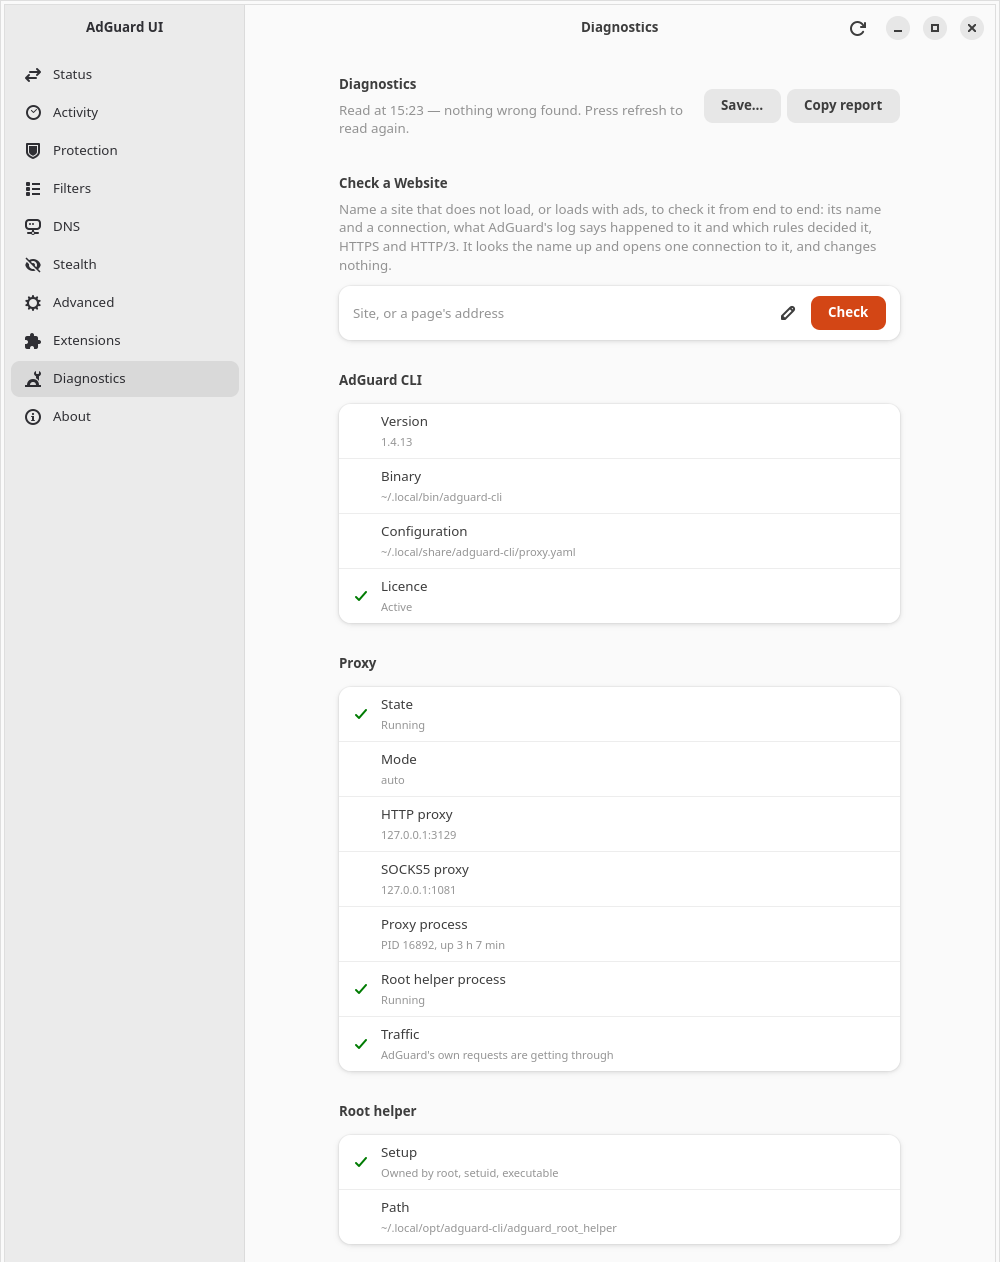
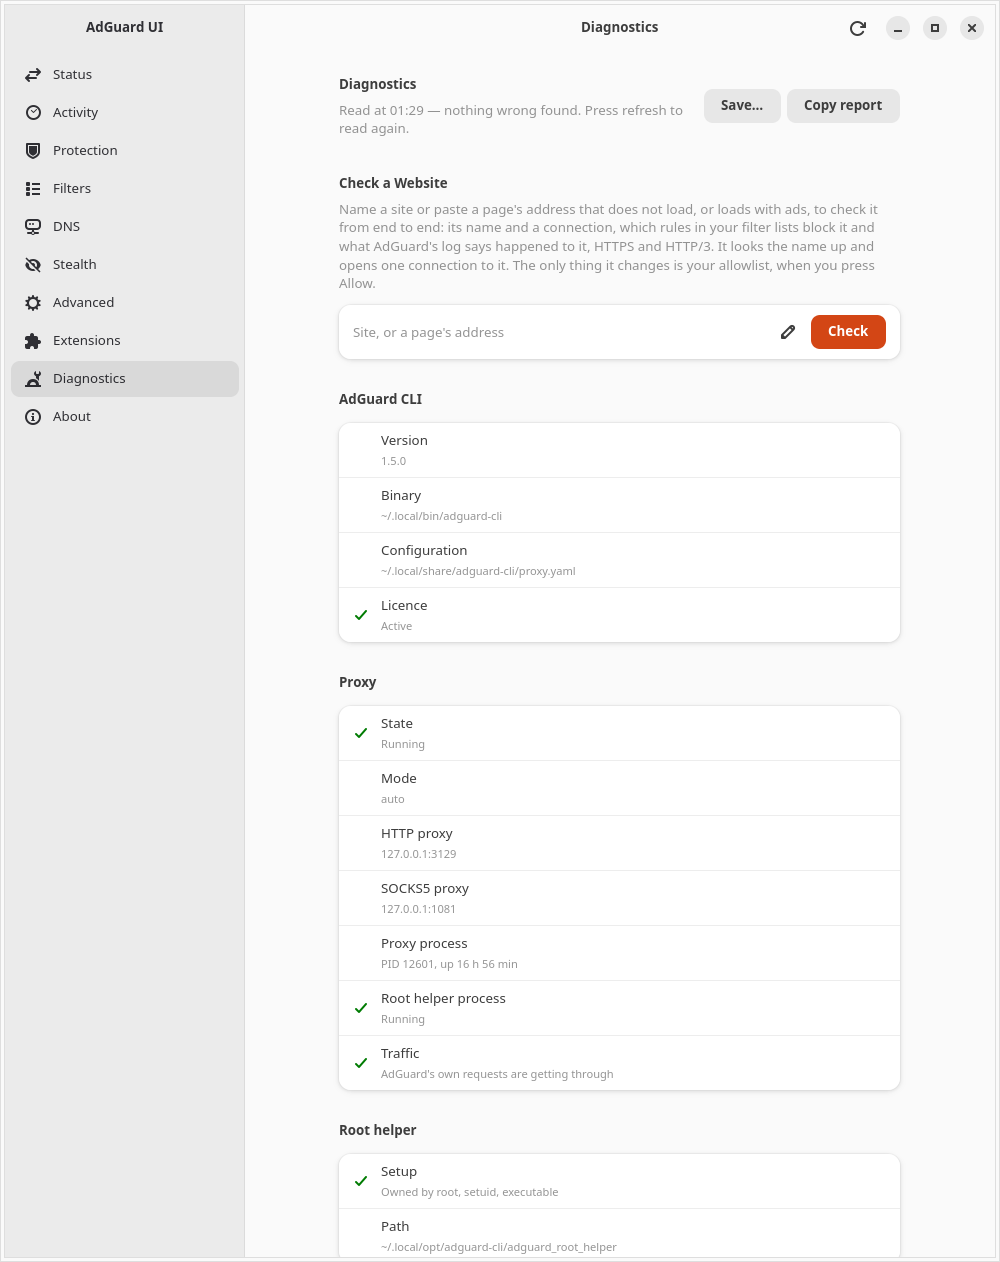
Release 1.13.0

Changed region(s): [[0.248, 0.5563, 1.0, 1.0], [0.341, 0.1545, 0.899, 0.4945], [0.341, 0.5254, 0.372, 0.5563]]

diff --git a/docs/building.md b/docs/building.md
@@ -378,7 +378,7 @@ The unmet certificate, root-helper and browser-integration groups are invisible 
 - **Three more things, measured 30 September 2026 while re-taking the set for 1.7.0**, which added Activity and Diagnostics and so invalidated every frame with a sidebar:
   - **The healthy frames need the certificate overridden now, because the reference machine is not healthy.** Its system anchor has held a stale copy of the CA since the certificate was regenerated on 6 September (`architecture.md` §7, the Diagnostics entry). Shot as it is, Protection grows a certificate group that the committed frame does not have. The CA's public `.pem` copied into a sandbox anchor directory and a sandbox bundle, named by `SYSTEM_CERT_DIR` and `ADGUARD_CA_BUNDLE`, restores the state every regular frame was taken in. The file holds one `BEGIN CERTIFICATE` block and no key, so this is not the private-key hazard `adguard.conf` is. With that, Protection's content column came back pixel-identical to the committed frame.
   - **The unmet frame's `ADGUARD_CA_BUNDLE` must name a file that does not exist, not an empty one.** An empty file changes which path the certificate row names: it reports the bundle it checked rather than `/tmp/adguard-demo/certs/AdGuard CLI CA.crt`. With an absent path the frame matched the committed one except for three antialiasing pixels in the title.
-  - **The Activity frame is sample data, and it has to be.** The real page lists this machine's most visited and most blocked sites. The frame is taken with a scratch `XDG_STATE_HOME`: launch once so the store reads the real log and records its position, delete every count but keep the `cursor` row, insert sample rows, then launch again for the frame. Keeping the cursor means only the few seconds of real traffic between the two launches are read back, and they reach the totals but not the top lists: check that every name in the four lists is one you inserted before committing the frame. The README's alt text says the data is sample data. **The Requests group further down is not covered by any of this**: it searches AdGuard's own log in place, and a scratch `XDG_STATE_HOME` does not move that log, so whatever it lists is this machine's real traffic. The committed frame ends above it, cut after Most Blocked Sites; keep it there.
+  - **The Activity frame is sample data, and it has to be.** The real page lists this machine's most visited and most blocked sites. The frame is taken with a scratch `XDG_STATE_HOME`: launch once so the store reads the real log and records its position, delete every count but keep the `cursor` row, insert sample rows, then launch again for the frame. Keeping the cursor means only the few seconds of real traffic between the two launches are read back, and they reach the totals but not the top lists: check that every name in the four lists is one you inserted before committing the frame. The README's alt text says the data is sample data. **The Requests tab is not covered by any of this**: it searches AdGuard's own log in place, and a scratch `XDG_STATE_HOME` does not move that log, so whatever it lists is this machine's real traffic. The committed frame is the Overview tab, cut after Most Blocked Sites; keep it there. Re-taken that way for 1.13.0, when the page gained its two tabs. The scratch state directory also receives a copy of `adguard.conf`, which holds the licence, so delete it once the frame is taken.
 - **Cut the crop on a background row, not at a fixed offset.** Both edges: a fixed offset above a group heading slices the previous group's last row in half, and a frame that ends mid-row reads as a rendering fault rather than as a page continuing. Walking to the nearest all-background row costs four lines and is the difference between a frame that looks deliberate and one that looks broken.
 
 **The two Status error frames are panel crops, not pages, and need none of the machinery above.** `status-failed-start.png` and `status-certificate-untrusted.png` (1.7.1) show only the hero panel and, in the second, the notice under it — no sidebar, so a new page does not invalidate them, and no licence rows, so nothing needs repainting. Neither state can be provoked on a healthy machine, so they were forced: a throwaway ignored test built a `StatusPage` with `ADGUARD_CLI=/bin/false`, set `start_failure` (or a running `ProxyStatus`), presented it in a plain window and grabbed the Xvfb screen, with `GSETTINGS_BACKEND=memory` ahead of `dbus-run-session` for the light scheme. The untrusted frame needs `XDG_DATA_HOME` to hold a copy of the CA's public `.pem` (no key) that the system bundle does not contain, and the notice's wording follows the *stale anchor* state, which is this machine's real one (`/usr/local/share/ca-certificates` holds the CA from before it was regenerated), so check both again before re-taking. Crop on background rows and assert the border of the crop is pure background, as for every frame here. Remove the test before committing; a re-take belongs to a release that changes the panel, not to every release.
@@ -604,7 +604,7 @@ A release is a tag. Everything else — building the three packages in clean con
 Four things happen before the tag, and all four are on the machine, not on the runner:
 
 ```bash
-cargo test --workspace --locked                 # 654 pass, 70 ignored
+cargo test --workspace --locked                 # 682 pass, 70 ignored
 make package                                    # the .deb and tarball build here first
 git status --porcelain                          # must be empty
 git log --oneline -1

diff --git a/README.md b/README.md
@@ -29,13 +29,13 @@ Every release carries a `.deb`, an `.rpm` and a tarball for `~/.local`, each bui
 On Ubuntu and Debian:
 
 ```bash
-sudo apt-get install ./adguard-ui_1.12.2_amd64.deb
+sudo apt-get install ./adguard-ui_1.13.0_amd64.deb
 ```
 
 On Fedora:
 
 ```bash
-sudo dnf install ./adguard-ui-1.12.2-1.x86_64.rpm
+sudo dnf install ./adguard-ui-1.13.0-1.x86_64.rpm
 ```
 
 [**Releases**](https://github.com/dominik-najberg/AdGuard-UI-Linux/releases) · [`CHANGELOG.md`](CHANGELOG.md). `apt-get install` and `dnf install` rather than `dpkg -i` or `rpm -i`, because they resolve the dependencies the package declares; the path has to start with `./` or they look the name up in the distribution's repositories instead. The tarball is the unprivileged route: extract it and run its `install.sh`, which writes under `~/.local` and never asks for a password.

diff --git a/CHANGELOG.md b/CHANGELOG.md
@@ -11,7 +11,7 @@ This file is the one changelog.
 
 ---
 
-## Unreleased
+## 1.13.0 — 25 October 2026
 
 ### Find the rule that blocks a site, and allow the site
 
